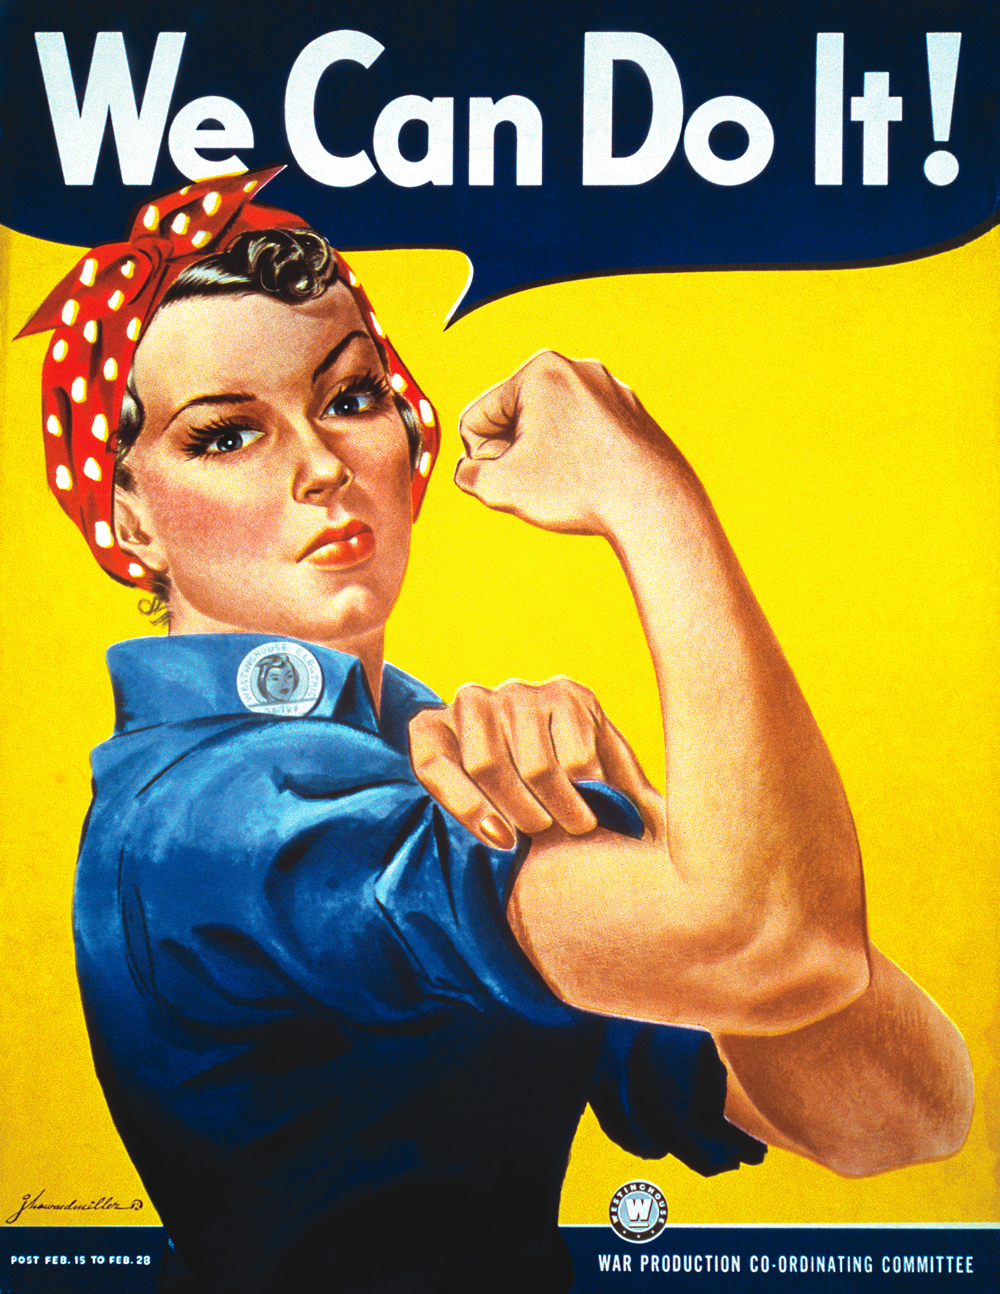
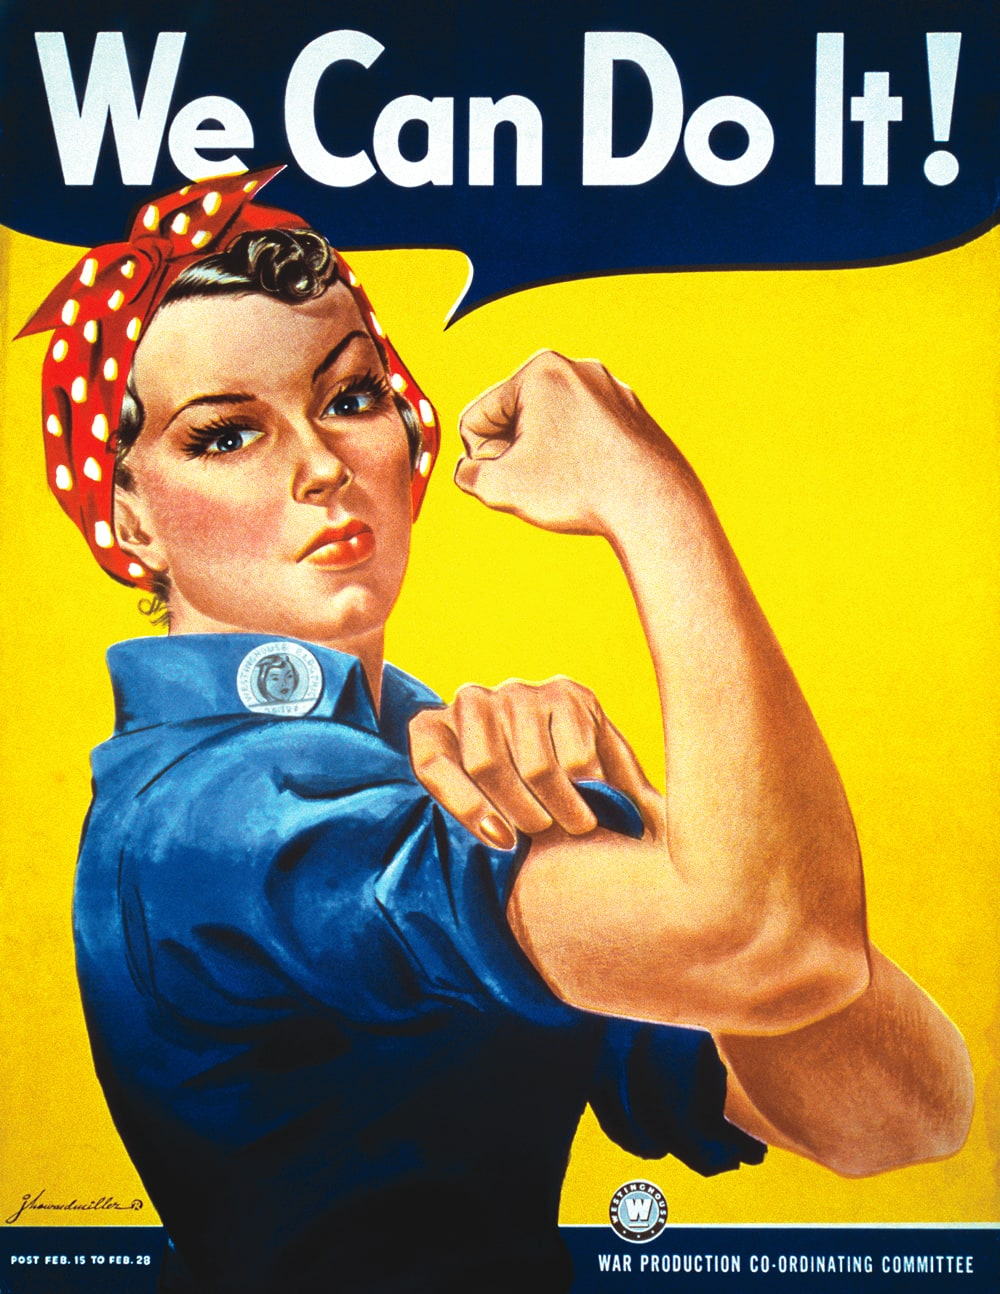
image optimization

diff --git a/tgc.js b/tgc.js
@@ -6,3 +6,11 @@ $(function () {
   knows.scrollLeft = $(knows).children().eq(0).width() + 20 - (($(window).width() / 2) - ($(knows).children().eq(1).width() / 2));
   stand.scrollLeft = $(stand).children().eq(0).width() + 20 - (($(stand).width() / 2) - ($(stand).children().eq(1).width() / 2));
 });
+
+$(function () {
+  var knows = document.getElementById("knows");
+  var stand = document.getElementById("stand");
+
+  knows.scrollLeft = $(knows).children().eq(0).width() + 20 - (($(window).width() / 2) - ($(knows).children().eq(1).width() / 2));
+  stand.scrollLeft = $(stand).children().eq(0).width() + 20 - (($(stand).width() / 2) - ($(stand).children().eq(1).width() / 2));
+});

diff --git a/index.html b/index.html
@@ -203,7 +203,7 @@
   <script src="https://cdnjs.cloudflare.com/ajax/libs/ScrollMagic/2.0.5/plugins/debug.addIndicators.js"></script>
 
   <!-- Animation Script -->
-  <script src="./animation.js"></script>
+  <script src="./home.js"></script>
   <script src="./projects.js"></script>
 </body>
 

diff --git a/tgc.css b/tgc.css
@@ -27,6 +27,7 @@
 
 #title-card>h2 {
   line-height: 32px;
+  letter-spacing: .5px
 }
 
 h3 {
